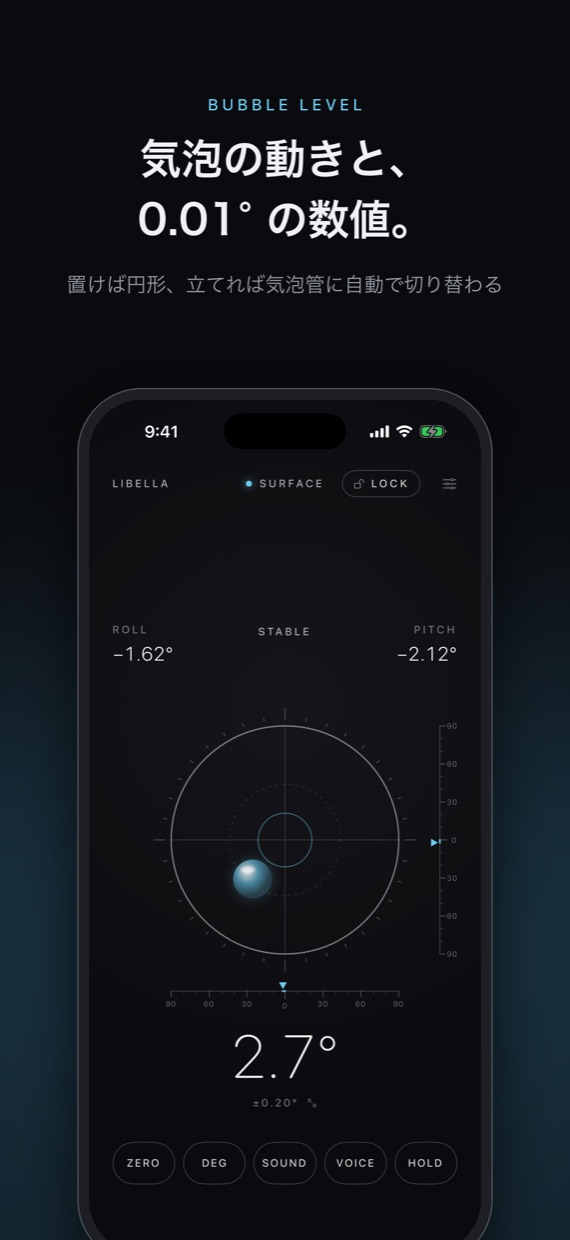
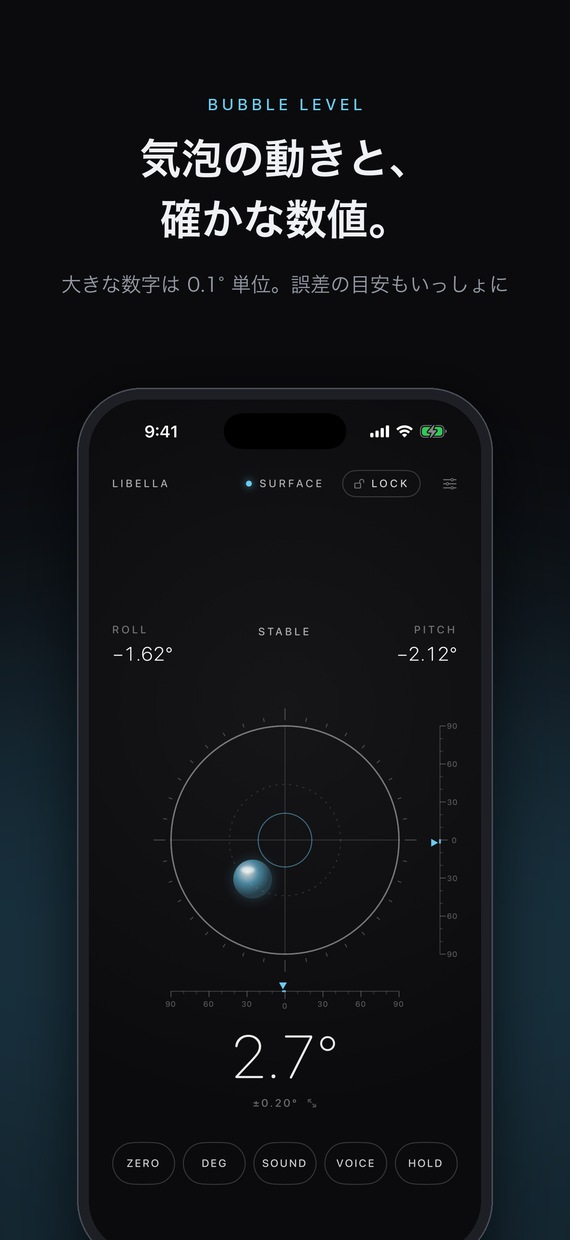
Libella：「0.01° 単位の数値」の表現を「誤差の目安つきの数値表示」に改め、1 枚目のスクリーンショットも差し替え

diff --git a/libella/index.html b/libella/index.html
@@ -3,7 +3,7 @@
 <head>
 <meta charset="utf-8">
 <meta name="viewport" content="width=device-width,initial-scale=1,viewport-fit=cover">
-<meta name="description" content="Libella — 気泡のなめらかな動きと 0.01° 単位の数値。置いた場所が見えなくても、声と音で水平に合わせられる iPhone の水準器・傾斜計。">
+<meta name="description" content="Libella — 気泡のなめらかな動きと、誤差の目安つきの数値。置いた場所が見えなくても、声と音で水平に合わせられる iPhone の水準器・傾斜計。">
 <meta name="theme-color" content="#0b0b0e">
 <title>Libella — 水平器・勾配計</title>
 <link rel="apple-touch-icon" href="img/icon.jpg">
@@ -29,7 +29,7 @@
 
 <main>
 <div class="shots" role="list" aria-label="スクリーンショット">
-  <figure role="listitem"><img src="img/level.jpg" alt="気泡の動きと、0.01° の数値。置けば円形、立てれば気泡管に自動で切り替わる" width="570" height="1240" loading="lazy"></figure>
+  <figure role="listitem"><img src="img/level.jpg" alt="気泡の動きと、確かな数値。大きな数字は 0.1° 単位で、誤差の目安もいっしょに表示" width="570" height="1240" loading="lazy"></figure>
   <figure role="listitem"><img src="img/voice.jpg" alt="見えなくても、声で合わせる。どちらを上げるかを声で案内し、離れても読める大表示" width="570" height="1240" loading="lazy"></figure>
   <figure role="listitem"><img src="img/target.jpg" alt="ダイヤルを回して、目標の角度に。屋根の勾配やスロープを「水平」として合わせる" width="570" height="1240" loading="lazy"></figure>
   <figure role="listitem"><img src="img/rotate.jpg" alt="どの向きでも、読みやすく。端末の向きに合わせて画面全体が回転する" width="570" height="1240" loading="lazy"></figure>
@@ -37,7 +37,7 @@
 </div>
 
 <section lang="ja">
-<p class="lead">気泡のなめらかな動きと、<br>0.01° 単位の数値表示。</p>
+<p class="lead">気泡のなめらかな動きと、<br>誤差の目安つきの数値表示。</p>
 <p>Libella は、ミニマルで美しい画面のまま、撮影、設置、DIY の現場で「手元にあると助かる」機能をそろえた水準器・傾斜計です。「左前を少し上げて」と、どちらを上げればよいかを声で案内するので、画面が見えない場所でも水平に合わせられます。</p>
 
 <div class="card">
@@ -94,7 +94,7 @@
 
 <section lang="en" id="en">
 <h2>Libella</h2>
-<p>A spirit level and inclinometer that pairs a smoothly moving bubble with readouts down to 0.01°. It tells you which side to raise — "Raise the near left corner a little" — so you can level things even where you can't see the screen.</p>
+<p>A spirit level and inclinometer that pairs a smoothly moving bubble with clear readouts and an error estimate. It tells you which side to raise — "Raise the near left corner a little" — so you can level things even where you can't see the screen.</p>
 
 <h3>The basic level (free)</h3>
 <ul>

diff --git a/libella/support.html b/libella/support.html
@@ -22,7 +22,7 @@
 
 <main>
 <section lang="ja">
-<p>「Libella」は、気泡のなめらかな動きと 0.01° 単位の数値表示を両立した、iPhone の水準器・傾斜計です。設定は、画面右上のボタンから開けます。</p>
+<p>「Libella」は、気泡のなめらかな動きと、誤差の目安つきの数値表示を両立した、iPhone の水準器・傾斜計です。設定は、画面右上のボタンから開けます。</p>
 
 <h2>動作環境</h2>
 <ul>
@@ -61,7 +61,7 @@
 
 <section lang="en" id="en">
 <h2>Support</h2>
-<p>"Libella" is a spirit level and inclinometer for iPhone that pairs a smoothly moving bubble with readouts down to 0.01°. Open the settings with the button at the top right of the screen.</p>
+<p>"Libella" is a spirit level and inclinometer for iPhone that pairs a smoothly moving bubble with clear readouts and an error estimate. Open the settings with the button at the top right of the screen.</p>
 
 <h3>Requirements</h3>
 <p>iPhone with iOS 17 or later. Japanese and English (switch in Settings under "言語 / Language").</p>
